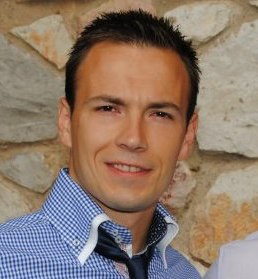
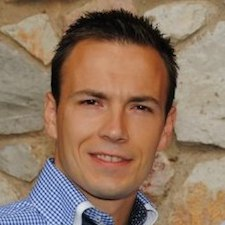
Resizing of images and index.html edit
Resized the images of the team members so they are all square
(225x225). Edited the index.HTML to include all the team members and
edited the text of the other sections.

diff --git a/index.html b/index.html
@@ -53,7 +53,7 @@
                         <a href="#page-top"></a>
                     </li>
                     <li>
-                        <a class="page-scroll" href="#services">Services</a>
+                        <a class="page-scroll" href="#services">What we do</a>
                     </li>
                     <li>
                         <a class="page-scroll" href="#portfolio">Portfolio</a>
@@ -90,8 +90,8 @@
         <div class="container">
             <div class="row">
                 <div class="col-lg-12 text-center">
-                    <h2 class="section-heading">Services</h2>
-                    <h3 class="section-subheading text-muted">Lorem ipsum dolor sit amet consectetur.</h3>
+                    <h2 class="section-heading">What we do</h2>
+                    <h3 class="section-subheading text-muted">New to our service? This is what we do.</h3>
                 </div>
             </div>
             <div class="row text-center">
@@ -100,24 +100,24 @@
                         <i class="fa fa-circle fa-stack-2x text-primary"></i>
                         <i class="fa fa-shopping-cart fa-stack-1x fa-inverse"></i>
                     </span>
-                    <h4 class="service-heading">E-Commerce</h4>
-                    <p class="text-muted">Lorem ipsum dolor sit amet, consectetur adipisicing elit. Minima maxime quam architecto quo inventore harum ex magni, dicta impedit.</p>
+                    <h4 class="service-heading">Second hand bike</h4>
+                    <p class="text-muted">You can find a used bike with a certified owner to ensure that you are not buying a stolen bike.</p>
                 </div>
                 <div class="col-md-4">
                     <span class="fa-stack fa-4x">
                         <i class="fa fa-circle fa-stack-2x text-primary"></i>
                         <i class="fa fa-laptop fa-stack-1x fa-inverse"></i>
                     </span>
-                    <h4 class="service-heading">Responsive Design</h4>
-                    <p class="text-muted">Lorem ipsum dolor sit amet, consectetur adipisicing elit. Minima maxime quam architecto quo inventore harum ex magni, dicta impedit.</p>
+                    <h4 class="service-heading">Find a bike</h4>
+                    <p class="text-muted">Search for the owner of a bike using its registration number and contacting them sending a text message.</p>
                 </div>
                 <div class="col-md-4">
                     <span class="fa-stack fa-4x">
                         <i class="fa fa-circle fa-stack-2x text-primary"></i>
                         <i class="fa fa-lock fa-stack-1x fa-inverse"></i>
                     </span>
-                    <h4 class="service-heading">Web Security</h4>
-                    <p class="text-muted">Lorem ipsum dolor sit amet, consectetur adipisicing elit. Minima maxime quam architecto quo inventore harum ex magni, dicta impedit.</p>
+                    <h4 class="service-heading">Register your bike</h4>
+                    <p class="text-muted">Create an account and register your bike.</p>
                 </div>
             </div>
         </div>
@@ -128,8 +128,8 @@
         <div class="container">
             <div class="row">
                 <div class="col-lg-12 text-center">
-                    <h2 class="section-heading">Portfolio</h2>
-                    <h3 class="section-subheading text-muted">Lorem ipsum dolor sit amet consectetur.</h3>
+                    <h2 class="section-heading">Get started</h2>
+                    <h3 class="section-subheading text-muted">Select one of our services.</h3>
                 </div>
             </div>
             <div class="row">
@@ -143,8 +143,8 @@
                         <img src="img/portfolio/roundicons.png" class="img-responsive" alt="">
                     </a>
                     <div class="portfolio-caption">
-                        <h4>Round Icons</h4>
-                        <p class="text-muted">Graphic Design</p>
+                        <h4>Market</h4>
+                        <p class="text-muted">Buy a certified used bike</p>
                     </div>
                 </div>
                 <div class="col-md-4 col-sm-6 portfolio-item">
@@ -157,8 +157,8 @@
                         <img src="img/portfolio/startup-framework.png" class="img-responsive" alt="">
                     </a>
                     <div class="portfolio-caption">
-                        <h4>Startup Framework</h4>
-                        <p class="text-muted">Website Design</p>
+                        <h4>Find a bike</h4>
+                        <p class="text-muted">Contact the owner of a bike</p>
                     </div>
                 </div>
                 <div class="col-md-4 col-sm-6 portfolio-item">
@@ -171,8 +171,8 @@
                         <img src="img/portfolio/treehouse.png" class="img-responsive" alt="">
                     </a>
                     <div class="portfolio-caption">
-                        <h4>Treehouse</h4>
-                        <p class="text-muted">Website Design</p>
+                        <h4>Registration</h4>
+                        <p class="text-muted">Create an account and register your bike</p>
                     </div>
                 </div>
             </div>
@@ -185,7 +185,7 @@
             <div class="row">
                 <div class="col-lg-12 text-center">
                     <h2 class="section-heading">About</h2>
-                    <h3 class="section-subheading text-muted">Lorem ipsum dolor sit amet consectetur.</h3>
+                    <h3 class="section-subheading text-muted">Our system is very simple to use: request a sticker, stick it to the frame of your bike, create and account and register your bike.<br>Once your bike is registered you can be contacted in case your bike is going to be removed. You can also notify if your bike has been stolen. Sell your bike through our online second hand market, certifying that you are to owner of the bike.</h3>
                 </div>
             </div>
             <div class="row">
@@ -193,7 +193,7 @@
                     <ul class="timeline">
                         <li>
                             <div class="timeline-image">
-                                <img class="img-circle img-responsive" src="img/about/Joaquin.jpg" alt="">
+                                <img class="img-circle img-responsive" src="img/about/1.jpg" alt="">
                             </div>
                             <div class="timeline-panel">
                                 <div class="timeline-heading">
@@ -207,7 +207,7 @@
                         </li>
                         <li class="timeline-inverted">
                             <div class="timeline-image">
-                                <img class="img-circle img-responsive" src="img/about/Stefan.jpg" alt="">
+                                <img class="img-circle img-responsive" src="img/about/2.jpg" alt="">
                             </div>
                             <div class="timeline-panel">
                                 <div class="timeline-heading">
@@ -221,7 +221,7 @@
                         </li>
                         <li>
                             <div class="timeline-image">
-                                <img class="img-circle img-responsive" src="img/about/Deepika.jpg" alt="">
+                                <img class="img-circle img-responsive" src="img/about/3.jpg" alt="">
                             </div>
                             <div class="timeline-panel">
                                 <div class="timeline-heading">
@@ -266,21 +266,21 @@
             <div class="row">
                 <div class="col-lg-12 text-center">
                     <h2 class="section-heading">Our Amazing Team</h2>
-                    <h3 class="section-subheading text-muted">Lorem ipsum dolor sit amet consectetur.</h3>
+                    <h3 class="section-subheading text-muted">This is the people who make this project possible.</h3>
                 </div>
             </div>
             <div class="row">
                 <div class="col-sm-4">
                     <div class="team-member">
                         <img src="img/team/Joaquin.jpg" class="img-responsive img-circle" alt="">
-                        <h4>Kay Garland</h4>
-                        <p class="text-muted">Lead Designer</p>
+                        <h4>Joaquin Sanchez-Valiente</h4>
+                        <p class="text-muted">Chief Visionary</p>
                         <ul class="list-inline social-buttons">
-                            <li><a href="#"><i class="fa fa-twitter"></i></a>
+                            <li><a href="http://twitter.com/jsvaliente"><i class="fa fa-twitter"></i></a>
                             </li>
-                            <li><a href="#"><i class="fa fa-facebook"></i></a>
+                            <li><a href="https://www.facebook.com/joaquinwood"><i class="fa fa-facebook"></i></a>
                             </li>
-                            <li><a href="#"><i class="fa fa-linkedin"></i></a>
+                            <li><a href="https://www.linkedin.com/in/jsvaliente/"><i class="fa fa-linkedin"></i></a>
                             </li>
                         </ul>
                     </div>
@@ -288,8 +288,8 @@
                 <div class="col-sm-4">
                     <div class="team-member">
                         <img src="img/team/Stefan.jpg" class="img-responsive img-circle" alt="">
-                        <h4>Larry Parker</h4>
-                        <p class="text-muted">Lead Marketer</p>
+                        <h4>Stefan Milenkovic</h4>
+                        <p class="text-muted">Lead Developer</p>
                         <ul class="list-inline social-buttons">
                             <li><a href="#"><i class="fa fa-twitter"></i></a>
                             </li>
@@ -303,8 +303,55 @@
                 <div class="col-sm-4">
                     <div class="team-member">
                         <img src="img/team/Deepika.jpg" class="img-responsive img-circle" alt="">
-                        <h4>Diana Pertersen</h4>
-                        <p class="text-muted">Lead Developer</p>
+                        <h4>Deepika Dipesh</h4>
+                        <p class="text-muted">Lead Designer</p>
+                        <ul class="list-inline social-buttons">
+                            <li><a href="#"><i class="fa fa-twitter"></i></a>
+                            </li>
+                            <li><a href="#"><i class="fa fa-facebook"></i></a>
+                            </li>
+                            <li><a href="#"><i class="fa fa-linkedin"></i></a>
+                            </li>
+                        </ul>
+                    </div>
+                </div>
+            </div>
+            <div class="row">
+                <div class="col-sm-4">
+                    <div class="team-member">
+                        <img src="img/team/Adeel.jpg" class="img-responsive img-circle" alt="">
+                        <h4>Adeel Illyas</h4>
+                        <p class="text-muted">Back-end Developer</p>
+                        <ul class="list-inline social-buttons">
+                            <li><a href="#"><i class="fa fa-twitter"></i></a>
+                            </li>
+                            <li><a href="#"><i class="fa fa-facebook"></i></a>
+                            </li>
+                            <li><a href="#"><i class="fa fa-linkedin"></i></a>
+                            </li>
+                        </ul>
+                    </div>
+                </div>
+                <div class="col-sm-4">
+                    <div class="team-member">
+                        <img src="img/team/Sarangi.jpg" class="img-responsive img-circle" alt="">
+                        <h4>Sarangi Narayanan</h4>
+                        <p class="text-muted">Lead Maketer</p>
+                        <ul class="list-inline social-buttons">
+                            <li><a href="#"><i class="fa fa-twitter"></i></a>
+                            </li>
+                            <li><a href="#"><i class="fa fa-facebook"></i></a>
+                            </li>
+                            <li><a href="#"><i class="fa fa-linkedin"></i></a>
+                            </li>
+                        </ul>
+                    </div>
+                </div>
+                <div class="col-sm-4">
+                    <div class="team-member">
+                        <img src="img/team/Marie-Blandine.jpg" class="img-responsive img-circle" alt="">
+                        <h4>Marie-Blandine Bertrand</h4>
+                        <p class="text-muted">Product Manager</p>
                         <ul class="list-inline social-buttons">
                             <li><a href="#"><i class="fa fa-twitter"></i></a>
                             </li>
@@ -318,7 +365,7 @@
             </div>
             <div class="row">
                 <div class="col-lg-8 col-lg-offset-2 text-center">
-                    <p class="large text-muted">Lorem ipsum dolor sit amet, consectetur adipisicing elit. Aut eaque, laboriosam veritatis, quos non quis ad perspiciatis, totam corporis ea, alias ut unde.</p>
+                    <p class="large text-muted">A combination of skills and knowledge, as well as a multidisciplinary and international background, make possible a visionary project to help cyclist improve their riding experience.</p>
                 </div>
             </div>
         </div>
@@ -330,7 +377,7 @@
             <div class="row">
                 <div class="col-lg-12 text-center">
                     <h2 class="section-heading">Contact Us</h2>
-                    <h3 class="section-subheading text-muted">Lorem ipsum dolor sit amet consectetur.</h3>
+                    <h3 class="section-subheading text-muted">Reach us out if you want more information.</h3>
                 </div>
             </div>
             <div class="row">
